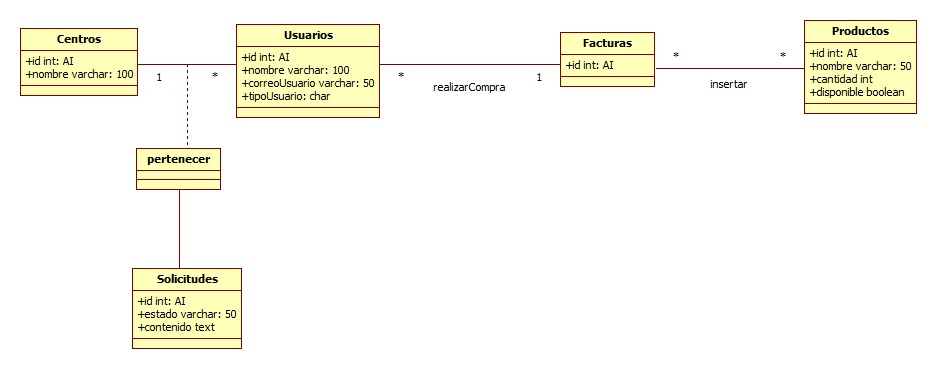
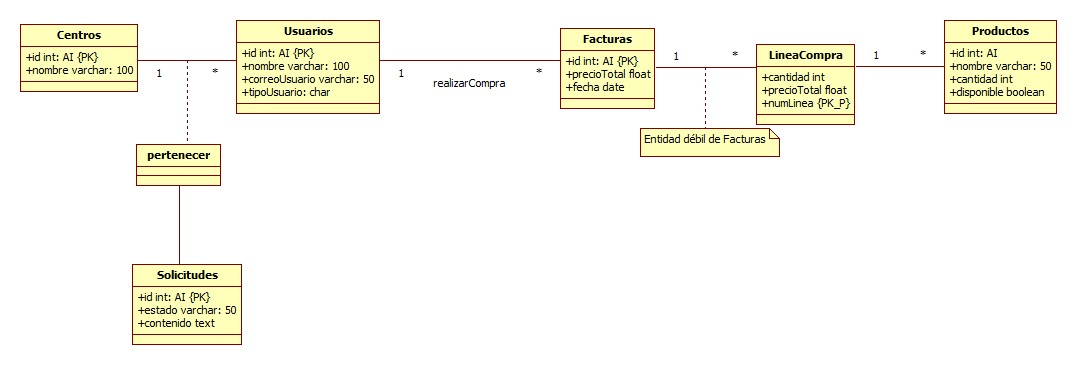
Actualizado doc principal, MER, casos de uso, Matriz de trazabilidad

Changed region(s): [[0.0, 0.0301, 0.9904, 0.4521], [0.1238, 0.7233, 0.2785, 0.9644], [0.1238, 0.3918, 0.2476, 0.5425]]

diff --git a/02_PlantAnaDisPlan.md b/02_PlantAnaDisPlan.md
@@ -79,57 +79,26 @@ Finalmente, para la planificación de realizó un diagrama Gantt y un EDT. Ambos
 ### Requisitos de información
     
 * RI001 - Usuarios
-	* Versión: 1.0 (19/12/2016)
-	* Autores: ?
-	* Fuentes: ?
 	* Dependencias:
 		* [RF-001]: Gestión de usuarios
 	*  Descripción: El sistema deberá almacenar la información correspondiente a los propios usuarios que usarán la aplicación. En concreto:
 	*  Datos específicos:
 		* Nombre
-		* Identificación
-		* Rol
-		* Dirección (se guarda por primera vez cuando se realiza un pedido)  
-	*  Tiempo de vida: 
-		* Medio: PD
-		* Máximo: PD  
-	*  Ocurrencias simultáneas:
-		* Medio: PD
-		* Máximo: PD
-	*  Importancia: vital
-	*  Urgencia:PD
-	*  Estado: PD
-	*  Estabilidad: PD
-	*  Comentarios: Criterio de validación: tanto el sistema de identificación de usuarios como todos los procesos de gestión de información relacionados con ellos deben funcionar de manera apropiada para el correcto funcionamiento de la aplicación.
+		* Id
+		* Tipo de usuario
+		* Correo electrónico
+	* Criterio de validación: tanto el sistema de identificación de usuarios como todos los procesos de gestión de información relacionados con ellos deben funcionar de manera apropiada para el correcto funcionamiento de la aplicación.
 * RI002 - Facturas
-	* Versión: 1.0 (19/12/2016)
-	* Autores: ?
-	* Fuentes: ?
 	* Dependencias:
 		* [RF-0003] Gestión de ventas
 	*  Descripción: El sistema deberá almacenar la información correspondiente a todas las compras que ya han sido tramitadas, gestionadas y finalizadas. En concreto:
 	*  Datos específicos:
-		* Id productos
-		* Cantidad de productos
-		* Responsable de compra
-		* Precio por producto
-		* Cuenta de cargo
-		* Solicitus de compra  
-	*  Tiempo de vida: 
-		* Medio: PD
-		* Máximo: PD  
-	*  Ocurrencias simultáneas:
-		*  Medio: PD
-		*  Máximo: PD
-	*  Importancia: PD
-	*  Urgencia: PD
-	*  Estado: PD
-	*  Estabilidad: PD
-	*  Comentarios: Criterio de validación: la factura debe poseer los datos correctos en relación a la factura con la que esté vinculada. Es decir, deberá mostrar la correcta suma de precios de los productos comprados, la fecha de compra correcta, el nombre de los productos, etc.
+		* Id
+		* precio total
+		* fecha
+		* lineas de compra
+	*  Criterio de validación: la factura debe poseer los datos correctos en relación a la factura con la que esté vinculada. Es decir, deberá mostrar la correcta suma de precios de los productos comprados, la fecha de compra correcta, el nombre de los productos, etc.
 * RI003 - Productos
-	* Versión: 1.0 (19/12/2016)
-	* Autores:
-	* Fuentes: 
 	* Dependencias:
 		* [RF-002] Gestionar Ítems, [RF-0003] Gestión de ventas
 	*  Descripción: El sistema deberá almacenar la información correspondiente a los productos disponibles en la tienda. En concreto:
@@ -140,72 +109,49 @@ Finalmente, para la planificación de realizó un diagrama Gantt y un EDT. Ambos
 		* Precio
 		* Unidades disponibles
 		* Proveedor (identificador del proveedor, que puede ser externo o la propia USC).
-	*  Tiempo de vida:
-		* Medio: PD
-		* Máximo: PD  
-	*  Ocurrencias simultáneas:
-		* Medio: PD
-		* Máximo: PD  
-	*  Importancia: vital
-	*  Urgencia: PD
-	*  Estado: PD
-	*  Estabilidad: PD
-	*  Comentarios: Criterio de validación: los datos relativos a los productos deben ser consistentes con el mundo real.
+	*  Criterio de validación: los datos relativos a los productos deben ser consistentes con el mundo real.
+
+* RI004 - Líneas de compra
+	* Dependencias:
+		* [RF-002] Gestionar Ítems, [RF-0003] Gestión de ventas
+	*  Descripción: El sistema deberá almacenar la información correspondiente a los productos que estén en la factura, junto con la cantidad que ha sido solicitada. En concreto:
+	*  Datos específicos:
+		* Número de línea
+		* Precio
+		* Cantiada
+		* Id de la factura
+	*  Criterio de validación: dada una línea de compra será posible saber a qué factura pertenece y qué productos están relacionados con ella.
 	
 * Reglas de negocio:
 	* Usuarios
-		* Versión: 1.0 (28/12/2016)
-		* Autores: ?
-		* Fuentes: ?
 		* Dependencias: 
 			* [RF-001] Gestión de usuarios
 		*  Descripción: la información almacenada por el sistema deberá satisfacer la siguiente restricción: los usuarios deben ser personas vinculadas a la USC para poder entrar al sistema.
-		*  Importancia: vital
-     	 *  Urgencia: PD
-		*  Estado: PD
-		*  Estabilidad: PD
-		*  Comentarios: Ninguno.
 	 * Facturas
-		* Versión: 1.0 (28/12/2016)
-		* Autores: ?
-		* Fuentes: ?
 		* Dependencias: 
 			* [RF-003] Gestión de ventas
 		*  Descripción: la información almacenada por el sistema deber´´a satisfacer la siguiente restricción: los importes de los productos que aparecen en las facturas deben corresponderse con el precio de dichos productos en el momento de la compra.
-		*  Importancia: PD
-     	 *  Urgencia: PD
-		*  Estado: PD
-		*  Estabilidad: PD
-		*  Comentarios: Ninguno.
 	* Productos
-		* Versión: 1.0 (28/12/2016)
-		* Autores: ?
-		* Fuentes: ?
 		* Dependencias:
 			* [RF-002] Gestionar Ítems
 		*  Descripción: la información almacenada por el sistema deberá satisfacer la siguiente restricción: los productos deben tener un identificador único y el número de unidades disponibles debe coincidir con las unidades en stock.
-		*  Importancia: importante
-     	*  Urgencia: PD
-		*  Estado: PD
-		*  Estabilidad: PD
-		*  Comentarios: Ninguno.
 
 ### Requisitos funcionales
 
 #### Requisitos del cliente
 * RF-001 
 	* Título: Gestión de usuarios 
-	* Descripción: La aplicación deberá permitir Gestionar usuarios. (CRU. Borrado NO => Dado de Baja).
+	* Descripción: La aplicación deberá permitir gestionar usuarios. Esta gestión consistirá en la creación, consulta, actualización y dada de baja de los usuarios.
 	* Importancia: vital.
-	* Criterio de validación: se considera que el requisito se cumple si permite crear nuevos usuarios, actualizarlos y leer sus datos además de darlos de baja (no borrarlos).
+	* Criterio de validación: se considera que el requisito se cumple si permite crear nuevos usuarios, actualizarlos y leer sus datos además de darlos de baja.
 * RF-002
-	* Título: Gestionar Ítems 
-	* Descripción: La aplicación deberá permitir gestionar los Ítems del catálogo (CRU, Borrado no => No disponible). Incluir importación y búsquedas según se detalle en los CUs correspondientes. 
+	* Título: Gestionar ítems 
+	* Descripción: La aplicación deberá permitir gestionar los ítems del catálogo. Esta gestión consiste en la creación, consulta, actualización de productos. Además, será necesario actualizar cuando sea necesario la disponibilidad de un producto. Será imprescindible poder importar información acerca de los ítems de un archivo csv.
 	* Importancia: vital.
 	* Criterio de validación: se considera que el requisito se cumple si permite crear nuevos Ítems en el catálogo, actualizarlos y leer sus datos.
 * RF-003
 	* Título: Gestión de ventas 
-	* Descripción: (CR. Actualización y Borrado NO). Se realizarán estadísticas sobre las ventas según se detalle en los CUs.
+	* Descripción: La aplicación deberá permitir que se creen y se consulten facturas de las ventas realizadas. Se deberá poder realizar estadísticas sobre las ventas.
 	* Importancia: vital.
 	* Criterio de validación: se considera que el requisito se cumple si las estadísticas sobre ventas poseen correlación con los datos reales de ventas.
 
@@ -234,6 +180,7 @@ Finalmente, para la planificación de realizó un diagrama Gantt y un EDT. Ambos
 	* Descripción: El sistema deberá enviar las notificaciones en el menor tiempo posible, para que el usuario no tenga dudas de que se realizó adecuadamente su compra. 
 	* Importancia: quedaría bien.
 	* Criterio de validación: Cronometrar el tiempo que tarda en llegar el correo de validación a la bandeja de entrada de un cliente después de realizar una compra en la aplicación. Este tiempo debe ser menor que 60 segundos.
+
 
 ## Matriz de trazabilidad
 

diff --git a/anexos/casosDeUso.md b/anexos/casosDeUso.md
@@ -31,7 +31,7 @@
 | UC-0004 | Pagar producto |
 |--|--|
 |**Descripción**| Gestiona el pago de los productos que un usuario haya añadido previamente a su carrito de compra.|
-|**Precondición**| - Estar correctamente identificado en la aplicación (sesión iniciada). <br> - El usuario debe tener al menos un producto en su carrido.|
+|**Precondición**| - Estar correctamente identificado en la aplicación (sesión iniciada). <br> - El usuario debe tener al menos un producto en su carrito.|
 |**Secuencia normal**| **1.** El actor *Usuario (ACT-0001)* selecciona la opción *Pagar producto* una vez ha quedado satisfecho con su carrito de compra. <br> **2.** El sistema muestra por pantalla una descripción de los productos que el usuario va a comprar, así como su precio. El precio se mostrará tanto desglosado producto a producto, como la suma total de todos ellos, que supondrá el gasto total por parte del usuario. <br> **3.** El actor *Usuario (ACT-0001)* accede a una pasarela de cobro seguro donde introduce sus datos de pago. <br> **4.** El sistema recibe la confirmación de cobro y el subsistema de BBDD actualiza los datos de stock, así como todos aquellos relacionados con la compra. <br> **5.** Se envía un correo electrónico de confirmación al usuario y se le muestra un resumen de la transacción. |
 | **Postcondición**| - El cliente adquiere el producto. <br> - La base de datos se modifica para actualizar el stock de productos y asignar la compra realizada al usuario. |
 |**Excepciones**| **4.** Si el cobro es imposible de determinar, el sistema muestra un mensaje de error y se devuelve al paso 2. |
